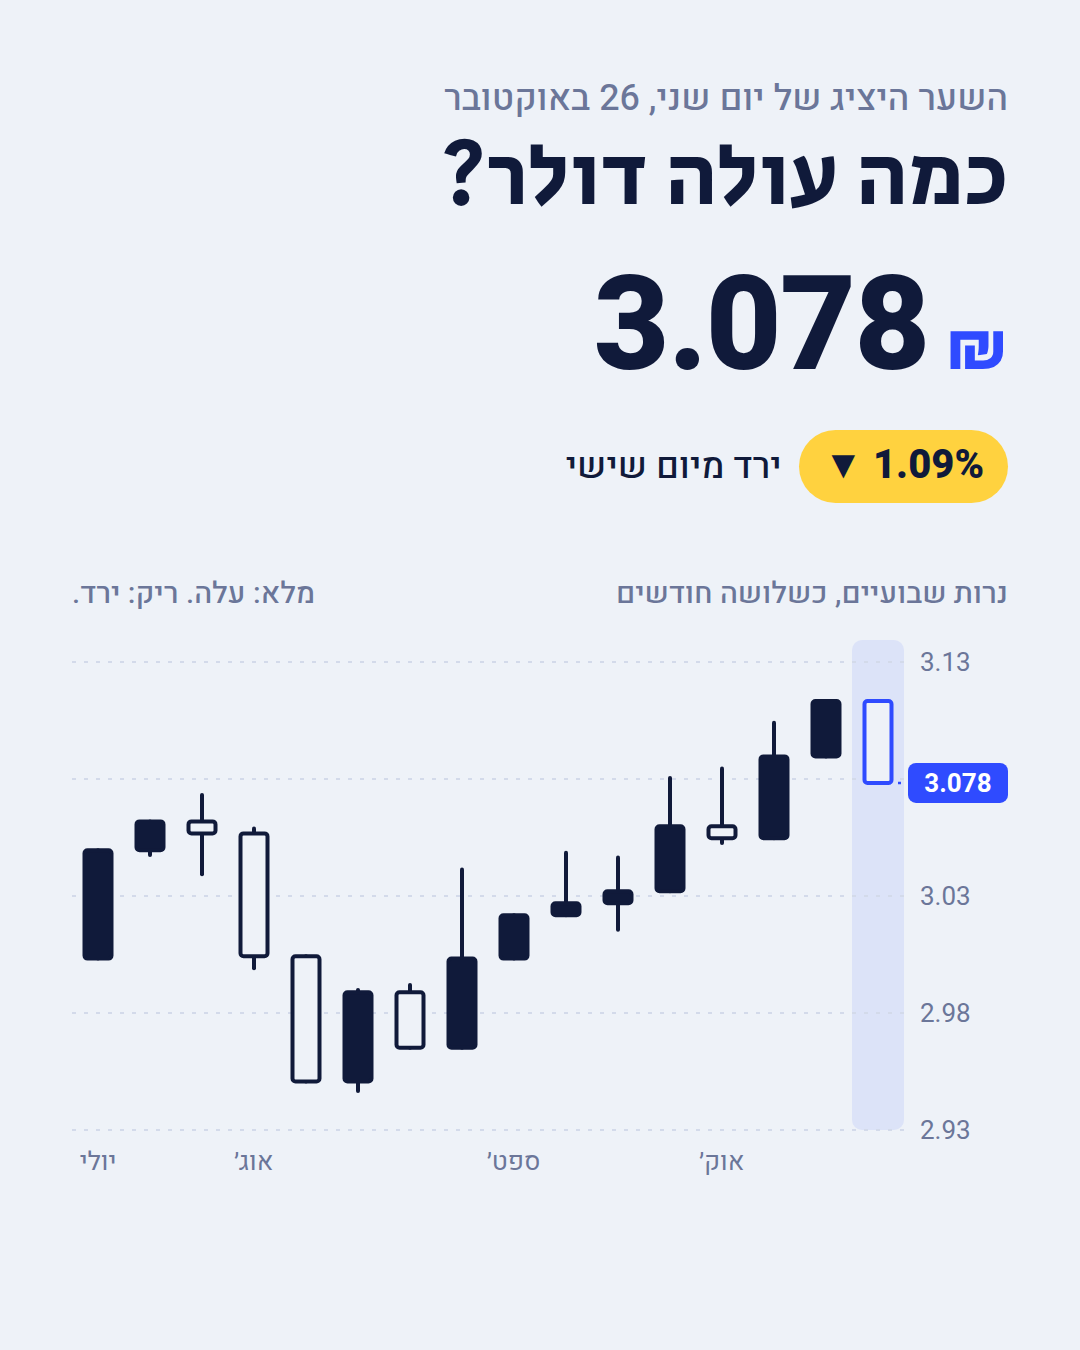
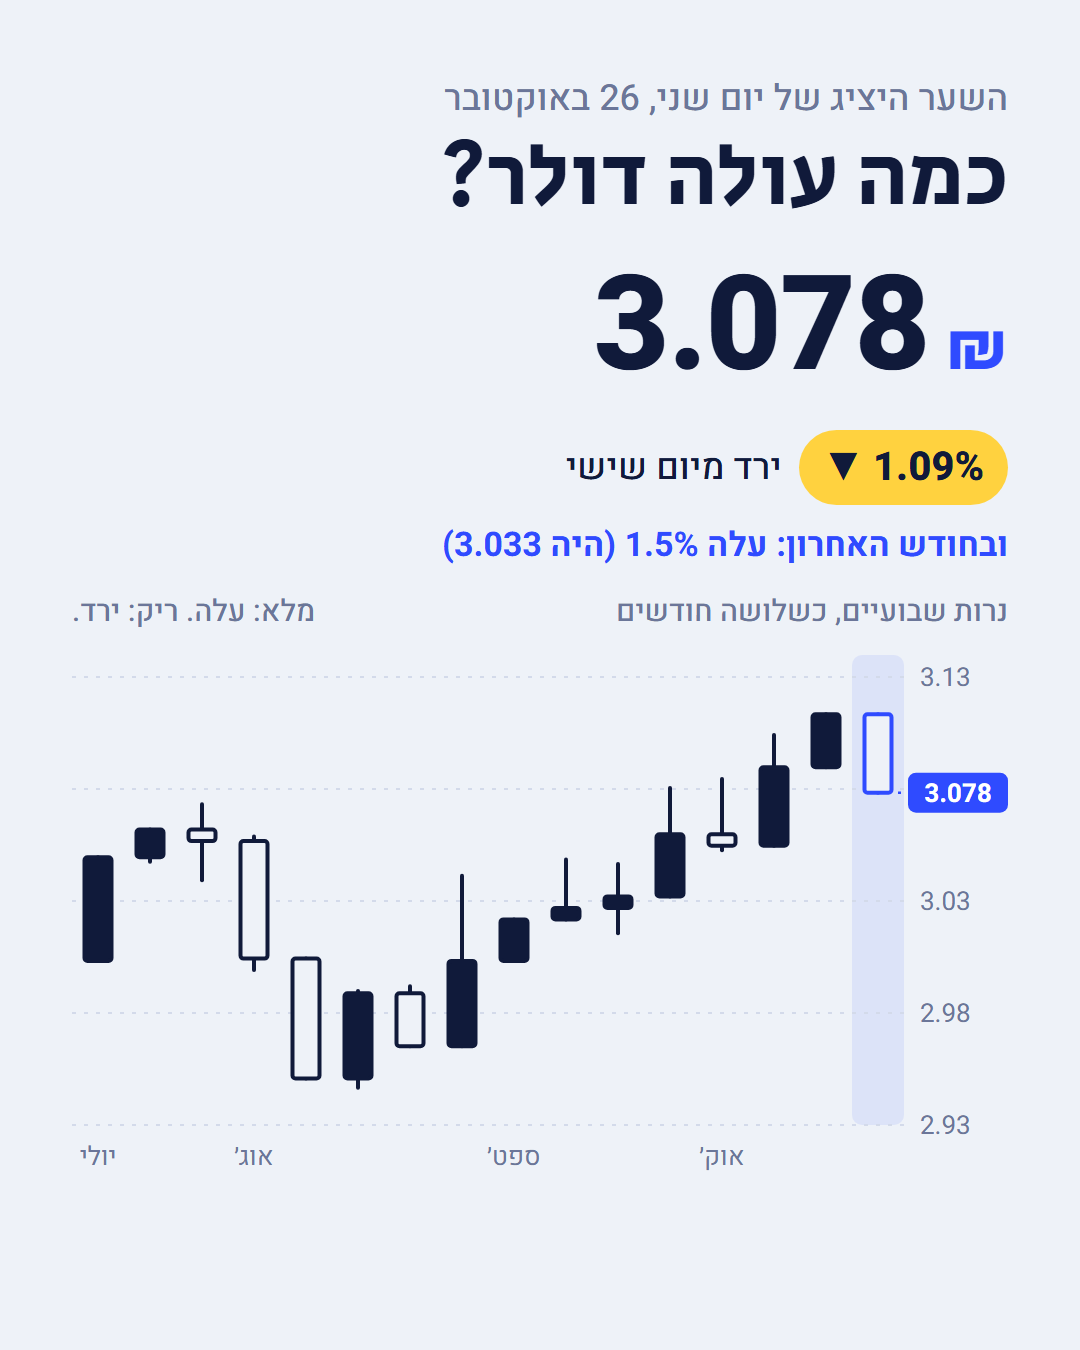
Clearer slides: month change on slide 1, today vs month-ago amounts on slide 2

diff --git a/money_cards.py b/money_cards.py
@@ -139,6 +139,9 @@ def slide1(series, candles):
     word = "ירד" if ch < 0 else "עלה"
     date_txt = f"השער היציג של יום {DAYS[d.weekday()]}, {d.day} ב{MONTHS[d.month - 1]}"
     since = f"מיום {DAYS[series[-2][0].weekday()]}"
+    _, v30 = value_on_or_before(series, d - timedelta(days=30))
+    ch30 = (rate / v30 - 1) * 100
+    month_txt = f"ובחודש האחרון: {'ירד' if ch30 < 0 else 'עלה'} {abs(ch30):.1f}% (היה {v30:.3f})"
     return page(f"""
 <div class="abs sub" style="top:72px;right:72px">{date_txt}</div>
 <h1 class="abs" style="top:132px;right:72px">כמה עולה דולר?</h1>
@@ -147,9 +150,10 @@ def slide1(series, candles):
 <div class="abs" style="top:430px;right:72px;display:flex;align-items:center;gap:18px">
   <span class="ltr" style="background:{SUN};font-weight:800;font-size:40px;padding:6px 24px 8px;border-radius:40px">{arrow} {abs(ch):.2f}%</span>
   <span style="font-size:36px;font-weight:500">{word} {since}</span></div>
-<div class="abs" style="top:572px;right:72px;left:72px;display:flex;justify-content:space-between;font-size:30px;color:{MUTE};font-weight:500">
+<div class="abs" style="top:520px;right:72px;font-size:34px;font-weight:700;color:{COBALT}">{month_txt}</div>
+<div class="abs" style="top:590px;right:72px;left:72px;display:flex;justify-content:space-between;font-size:30px;color:{MUTE};font-weight:500">
   <span>נרות שבועיים, כשלושה חודשים</span><span>מלא: עלה. ריק: ירד.</span></div>
-<div class="abs ltr" style="top:640px;left:72px">{candles_svg(candles)}</div>
+<div class="abs ltr" style="top:655px;left:72px">{candles_svg(candles, h=520)}</div>
 <div class="abs" style="top:1322px;display:none"></div>""", 0)
 
 
@@ -161,23 +165,27 @@ def slide2(series):
     for title, usd, kind in rows:
         now_v, old_v = usd * rate, usd * old
         diff = now_v - old_v
-        cheaper = diff < 0
-        good = cheaper if kind == "buy" else not cheaper
         if abs(diff) < 0.5:
-            line, color = "כמעט בלי שינוי לעומת לפני חודש", MUTE
+            line, color = "כמעט בלי שינוי", MUTE
         else:
-            verb = ("זול" if cheaper else "יקר") if kind == "buy" else ("מקבלים פחות" if cheaper else "מקבלים יותר")
-            line = (f"{verb} ב־₪{abs(diff):,.0f} לעומת לפני חודש" if kind == "buy"
-                    else f"{verb} ב־₪{abs(diff):,.0f} לעומת לפני חודש")
+            more = diff > 0
+            amount = f"₪{abs(diff):,.0f}"
+            if kind == "buy":
+                line, good = f"אותו דבר עולה לך {amount} " + ("יותר" if more else "פחות"), not more
+            else:
+                line, good = f"אתה מקבל {amount} " + ("יותר" if more else "פחות"), more
             color = COBALT if good else WARN
-        out.append(f"""<div style="padding:34px 0;border-top:3px solid {GRID}">
-  <div style="display:flex;justify-content:space-between;align-items:baseline">
+        out.append(f"""<div style="padding:30px 0 26px;border-top:3px solid {GRID}">
+  <div style="display:flex;justify-content:space-between;align-items:center">
     <div><div style="font-size:46px;font-weight:700">{title}</div><div style="font-size:32px;color:{MUTE};font-weight:500">{usd:,} דולר</div></div>
-    <div class="ltr" style="font-size:72px;font-weight:800;line-height:1">₪{now_v:,.0f}</div></div>
-  <div style="margin-top:12px;font-size:34px;font-weight:700;color:{color}">{line}</div></div>""")
+    <div style="text-align:left;direction:rtl">
+      <div style="font-size:28px;color:{MUTE};font-weight:500">היום</div>
+      <div style="font-size:72px;font-weight:800;line-height:1.05">₪{now_v:,.0f}</div>
+      <div style="font-size:30px;color:{MUTE};font-weight:500">לפני חודש: ₪{old_v:,.0f}</div></div></div>
+  <div style="margin-top:10px;font-size:36px;font-weight:800;color:{color}">{line}</div></div>""")
     return page(f"""
 <h1 class="abs" style="top:100px;right:72px;left:72px">מה זה אומר לכיס שלך?</h1>
-<div class="abs sub" style="top:214px;right:72px">אותו סכום בדולרים, בשקלים</div>
+<div class="abs sub" style="top:214px;right:72px">אותו סכום בדולרים: היום מול לפני חודש</div>
 <div class="abs" style="top:330px;right:72px;left:72px">{''.join(out)}</div>
 <div class="abs" style="bottom:120px;right:72px;left:72px;font-size:26px;color:{MUTE}">חישוב לפי השער היציג של בנק ישראל. הסבר כללי, לא ייעוץ.</div>""", 1)
 
